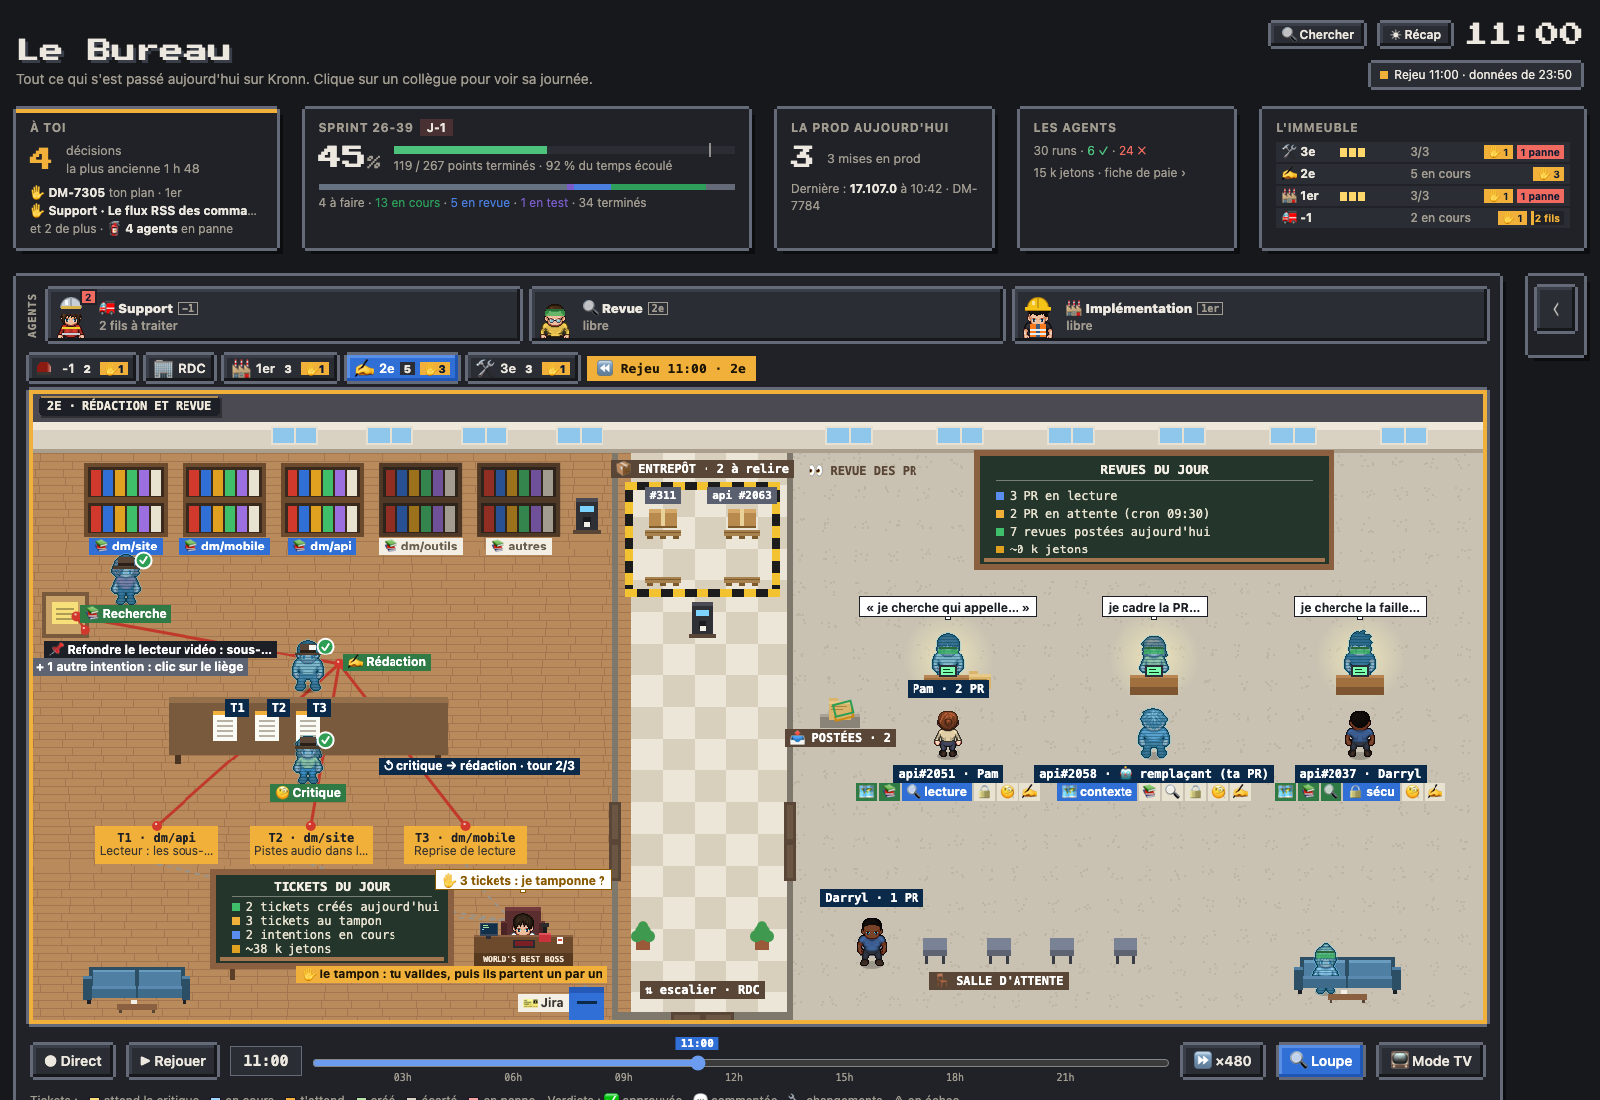
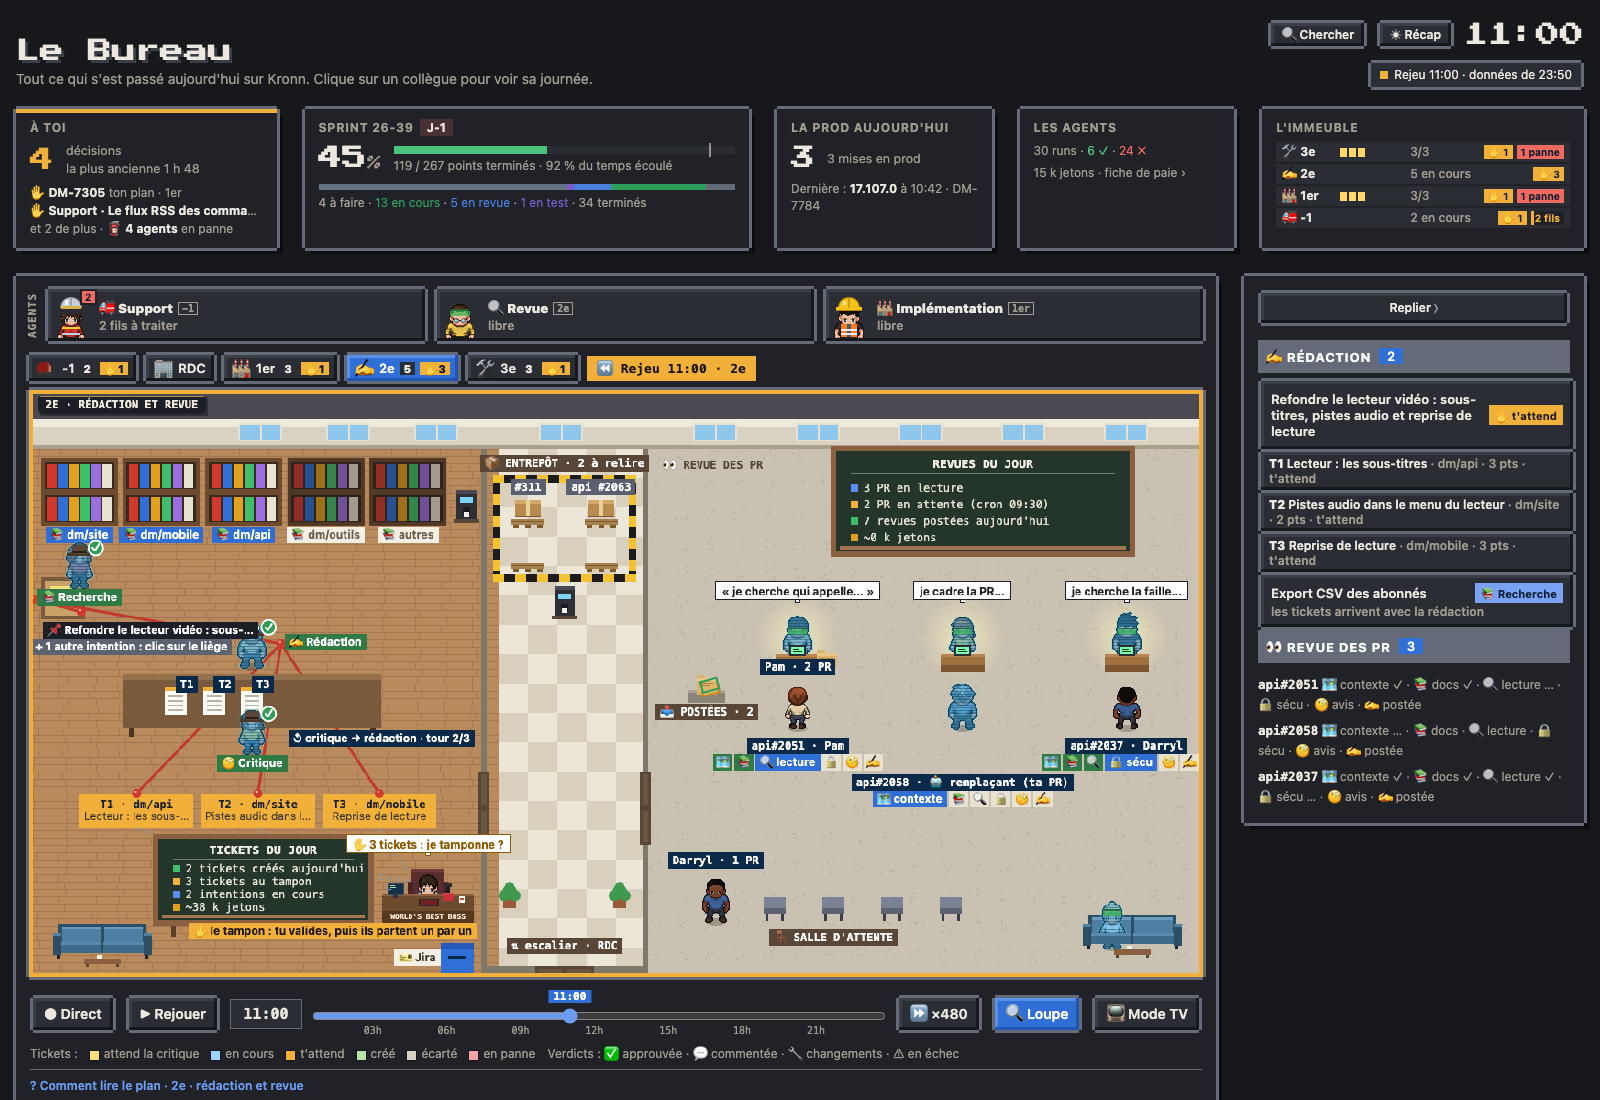
feat(etages): le 2e à 40 cases : rédaction 15,5, couloir 5,5, revue 19

diff --git a/page/src/68-redaction.js b/page/src/68-redaction.js
@@ -21,14 +21,14 @@ const RD_HELP={bar:()=>'<span>Tickets :</span>'+legSwatches(RD_TK)+'<span>Verdic
     '<p><b>L\'entrepôt</b>, en haut du couloir : une palette par PR qui attend sa relecture, dans l\'ordre du cron ; en rouge, une revue en panne. <b>Corbeille « Postées »</b> : les avis du passage. <b>Trois bureaux</b> de revue, le premier pour la file. <b>Salle d\'attente</b>, en bas : une chaise par auteur.</p>',
   moments:'<p><b>✋ Le tampon</b> : ici, ta décision, c\'est le tampon. Les tickets relus l\'attendent un par un.</p><p><b>✂ Le découpage</b> : une intention qui touche plusieurs projets devient plusieurs tickets, un brin de fil chacun.</p>'+
     '<p><b>📥 La fournée</b> : à chaque passage du cron des revues, Bernard pose une palette par PR dans l\'entrepôt.</p>'};
-// 46 × 20 cases : une rangée de pièces de part et d'autre du couloir, sans second niveau (AT_ROWS, 68-atelier.js) ; le
+// 40 × 20 cases, comme le RDC : une rangée de pièces de part et d'autre du couloir, sans second niveau (AT_ROWS, 68-atelier.js) ; le
 // couloir, plus large, garde l'entrepôt de la revue en haut (68-revue.js) ; RD_HY : le palier, devant les deux portes
 const RD_ROWS=20;AT_ROWS[2]=RD_ROWS;
-const RD_X1=18.5, RD_VX=24, RD_HY=14.25, RD_SH0=['dm/site','dm/mobile','dm/api','dm/outils'];
-const RD_WINDOWS=[7.5,10.5,13.5,16.5,25,28.5,32,35.5,39,42.5]; // en cases : à droite du nom de l'étage, comme au RDC
-const RD_DESK={x:15.6*AT_TS,y:17.7*AT_TS}, RD_JIRA={x:17.6*AT_TS,y:19.9*AT_TS}, RD_CORK={x:1.15*AT_TS,y:8*AT_TS};
+const RD_X1=15.5, RD_VX=21, RD_HY=14.25, RD_SH0=['dm/site','dm/mobile','dm/api','dm/outils'];
+const RD_WINDOWS=[7,10,13,17.25,22.5,26,29.5,33,36.5]; // en cases : à droite du nom de l'étage, comme au RDC
+const RD_DESK={x:13.6*AT_TS,y:17.7*AT_TS}, RD_JIRA={x:14.6*AT_TS,y:19.9*AT_TS}, RD_CORK={x:1.15*AT_TS,y:8*AT_TS};
 // les cartes des tickets (le bas du fil rouge) ; les bureaux de la revue, sur une seule rangée (le premier : la file du cron)
-const RD_CARD_Y=14.5*AT_TS, RV_DESKS=3, rvDeskX=k=>(29+k*6.5)*AT_TS, RV_FEET=9.2*AT_TS;
+const RD_CARD_Y=14.5*AT_TS, RV_DESKS=3, rvDeskX=k=>(26.2+k*5.6)*AT_TS, RV_FEET=9.2*AT_TS;
 let REDACTION=null, RDSEL=null, RD_HITS=[], RD_LIT=[], RD_MEM={last:0};
 let RDTK=null; // le ticket ouvert dans le panneau : {run, k} (clic sur sa carte à la table ou sur sa ligne du panneau)
 // la fiche ouverte au clic sur le plan : intention, poste, boîte Jira ; à la revue : PR lue, auteur, entrepôt, corbeille ;
@@ -125,7 +125,7 @@ const rvSteps=r=>(r.steps||[]).filter(s=>RV_STEP[s.n]); // les postes et l'avis 
 // pour que trois bureaux côte à côte ne se chevauchent pas
 function rvStepsRow(r,cx,y){
   const steps=rvSteps(r), f='bold 12px system-ui,sans-serif';ctx.font=f;
-  const ls=steps.map(rvStepLbl), ws=ls.map(l=>ctx.measureText(l).width+(l.includes(' ')?10:6)), tot=ws.reduce((a,b)=>a+b,0)+Math.max(0,steps.length-1)*2;let x=cx-tot/2;
+  const ls=steps.map(rvStepLbl), ws=ls.map(l=>ctx.measureText(l).width+(l.includes(' ')?10:6)), tot=ws.reduce((a,b)=>a+b,0)+Math.max(0,steps.length-1)*2;let x=Math.max(4,Math.min(AT_W-4-tot,cx-tot/2)); // dans le plan, comme atPill
   steps.forEach((s,j)=>{const c=s.s==='Success'?'#2f7a45':s.s==='Running'?'#2f6fd6':s.s==='Failed'?'#a8323a':'#e8e2d0';
     R(ctx,x,y-13,ws[j],18,c);atTxt(ls[j],x+ws[j]/2,y,c==='#e8e2d0'?'#6a6050':'#fff',f);x+=ws[j]+2;});
 }
@@ -138,7 +138,7 @@ const rdFait=t=>t&&t.fait&&faNear(REDACTION)?t.fait:null;
 const RD_T=AT_TS;
 function rdBackground(){
   const T=RD_T, H=RD_ROWS, d0=RD_HY-1.25, d1=RD_HY+1.25, c=document.createElement('canvas');c.width=AT_W;c.height=H*T;const g=c.getContext('2d');
-  for(let y=0;y<H;y++)for(let x=0;x<46;x++)drawFloor(g,x,y,x<RD_X1?'wood':x<RD_VX?'tiles':'carpet');
+  for(let y=0;y<H;y++)for(let x=0;x<AT_W/T;x++)drawFloor(g,x,y,x<RD_X1?'wood':x<RD_VX?'tiles':'carpet');
   R(g,0,0,AT_W,T,'#4b4a52');R(g,0,T,AT_W,8,'#efe9dc');R(g,0,T+8,AT_W,24,'#d9d2c3');R(g,0,T+28,AT_W,4,'#a99f8c');
   for(const x of [RD_X1,RD_VX]){R(g,x*T-3,2*T,6,(d0-2)*T,'#7d776c');R(g,x*T-3,d1*T,6,(H-d1)*T,'#7d776c');}
   for(const x of [RD_X1,RD_VX])woodDoor(g,x*T-6,d0*T,12,2.5*T,2,true); // les portes de la rédaction et de la revue, sur le palier
@@ -180,15 +180,15 @@ function rdStrand(a,b,on){ctx.save();ctx.beginPath();ctx.moveTo(a.x,a.y);if(on){
 // avant qu'elle démarre, et porte chaque ticket tamponné à la boîte Jira.
 let RD_LV=null;
 const rdLv0=()=>Object.assign(lvMem(),{wan:{},sleep:false,seen:new Set(),tk:{},pend:{},gate:new Set(),jobs:[],job:null,want:{},run:null});
-const RDP=(x,y)=>({x:x*RD_T,y:y*RD_T}), RD_KS={recherche:60,redaction:61,critique:62}, RD_COFFEE=RDP(17.6,4.4);
+const RDP=(x,y)=>({x:x*RD_T,y:y*RD_T}), RD_KS={recherche:60,redaction:61,critique:62}, RD_COFFEE=RDP(14.9,4.4);
 // le palier, la porte de la rédaction, puis l'allée le long du mur du couloir ; RD_AU, RD_AL : l'allée du haut (au-dessus de
 // la table) et celle du bas (sous la critique, au-dessus des tickets épinglés)
-const RD_H=RDP((RD_X1+RD_VX)/2,RD_HY), RD_IN=[RD_H,RDP(RD_X1,RD_HY),RDP(17.6,RD_HY)], RD_AU=7.6, RD_AL=13.2;
+const RD_H=RDP((RD_X1+RD_VX)/2,RD_HY), RD_IN=[RD_H,RDP(RD_X1,RD_HY),RDP(14.6,RD_HY)], RD_AU=7.6, RD_AL=13.2;
 const rdEntry=()=>[RVF.stairLow,RVF.stair,RD_H]; // 68-revue.js : de derrière la porte de l'escalier au palier
-function rdGeo(t){const T=RD_T, shelves=rdShelves(t), sw=3.1*T, sh0=(RD_X1*T-(4*sw+84))/2, lit=new Set((t&&t.composants)||[]), shi=t?Math.max(0,shelves.findIndex(n=>lit.has(n))):1, tx=8.8*T, ty=10.6*T;
+function rdGeo(t){const T=RD_T, shelves=rdShelves(t), sw=2.8*T, sh0=(RD_X1*T-28-(4*sw+84))/2, lit=new Set((t&&t.composants)||[]), shi=t?Math.max(0,shelves.findIndex(n=>lit.has(n))):1, tx=7.6*T, ty=10.6*T;
   return {T,shelves,sw,sh0,lit,shi,tx,ty,rech:{x:sh0+shi*sw+42,y:6.7*T},red:{x:tx,y:ty-1.2*T},cri:{x:tx,y:ty+1.75*T}};}
 // les places : par l'allée du haut (au-dessus de la table) ou celle du bas (au-dessus des tickets épinglés)
-function rdSpots(G){const T=RD_T, U=[...RD_IN,RDP(17.6,RD_AU)], L=[...RD_IN,RDP(17.6,RD_AL)], sofa=RD_SOFA;
+function rdSpots(G){const T=RD_T, U=[...RD_IN,RDP(14.6,RD_AU)], L=[...RD_IN,RDP(14.6,RD_AL)], sofa=RD_SOFA;
   const seat=j=>{const x=sofa.x+(j?22:-22);return {id:'sofa'+j,path:[...L,RDP(1.2,RD_AL),RDP(1.2,17.2),{x,y:17.2*T},{x,y:sofa.y}],dir:'down',sofa:true,front:()=>atSofaFront(sofa.x,sofa.y)};};
   return {recherche:{id:'p:rech',path:[...U,{x:G.rech.x,y:RD_AU*T},G.rech],dir:'up',seat:true},redaction:{id:'p:red',path:[...U,{x:G.red.x,y:RD_AU*T},G.red],dir:'down',seat:true},
     critique:{id:'p:cri',path:[...L,{x:G.cri.x,y:RD_AL*T},G.cri],dir:'up',seat:true},
@@ -209,7 +209,7 @@ function rdWant(t,G,now,rnd){
 }
 // le boss : une intention arrive, il va l'épingler au liège ; un ticket tamponné, il le porte à Jira. Un trajet à la fois.
 // à Jira : il s'arrête au-dessus de la boîte, tournée vers elle (en bas du plan)
-const RD_SOFA=RDP(3.4,19), RD_UP=RDP(15.6,16.5), RD_TRIP={intro:[RD_DESK,RD_UP,RDP(17.2,16.5),RDP(17.2,RD_AL),RDP(1.15,RD_AL),RDP(1.15,9.2)],jira:[RD_DESK,RD_UP,RDP(17.6,16.5),RDP(17.6,18.6)]};
+const RD_SOFA=RDP(2.5,19), RD_UP=RDP(13.6,16.5), RD_TRIP={intro:[RD_DESK,RD_UP,RDP(14.4,16.5),RDP(14.4,RD_AL),RDP(1.15,RD_AL),RDP(1.15,9.2)],jira:[RD_DESK,RD_UP,RDP(14.6,16.5),RDP(14.6,18.6)]};
 function rdJobs(t,now,dt){
   const M=RD_LV, boost=walkBoost();
   if(t&&!M.seen.has(t.run)){M.seen.add(t.run);if(!M.fresh&&!REDUCED_MOTION){M.gate.add(t.run);M.jobs.push({kind:'intro',run:t.run});}}
@@ -242,19 +242,20 @@ function rdRoom(now,people){
   rdLate(people,()=>{R(ctx,tx-4.4*T,ty-.9*T,8.8*T,1.8*T,'#7a5a3c');R(ctx,tx-4.4*T,ty-.9*T,8.8*T,6,'#94704c');R(ctx,tx-4.2*T,ty+.9*T,6,10,'#4a3424');R(ctx,tx+4.2*T-6,ty+.9*T,6,10,'#4a3424');
     tks.slice(0,4).forEach((x,k)=>{const sx=tx+(-2.6+k*1.3)*T;R(ctx,sx-12,ty-15,24,30,'#fbfbf6');R(ctx,sx-12,ty-15,24,4,RD_TK[x.etat]?RD_TK[x.etat][0]:'#2f6fd6');for(let l=0;l<4;l++)R(ctx,sx-8,ty-6+l*5,16,2,'#b8b2a4');atPill('T'+(k+1),sx+12,ty-14,'#0b2a4a','#fff','bold 12px ui-monospace,Menlo,monospace');});
     if(tks.length>4)atPill('+'+(tks.length-4),tx+2.6*T,ty,'#0b2a4a','#fff','bold 12px ui-monospace,Menlo,monospace');
-    if(t&&t.tour>1)atPill('↺ critique → rédaction · tour '+t.tour+'/3',tx+5.4*T,ty+1.4*T,'#0b2a4a','#fff','bold 12px system-ui,sans-serif');},ty-.6*T);
+    if(t&&t.tour>1){const s='↺ critique → rédaction · tour '+t.tour+'/3';ctx.font='bold 12px system-ui,sans-serif';
+      atPill(s,Math.min(tx+5.4*T,RD_X1*T-10-(ctx.measureText(s).width+10)/2),ty+1.4*T,'#0b2a4a','#fff','bold 12px system-ui,sans-serif');}},ty-.6*T);
   atHitRd('table',tx-4.4*T,ty-2.2*T,8.8*T,5*T,{});
   // les plaques des postes (leur nom, toujours au même endroit, même quand l'agent se promène) : le fil rouge y est épinglé
   const plq={recherche:{x:rech.x,y:rech.y+16},redaction:{x:red.x+80,y:red.y-22},critique:{x:cri.x,y:cri.y+16}}, pin={};
   ctx.font='bold 12px system-ui,sans-serif';for(const k in plq)pin[k]={x:plq[k].x-(ctx.measureText(RD_LBL[k]).width+10)/2-4,y:plq[k].y-2};
   // le fil rouge : le liège, la recherche, la rédaction, puis un brin par ticket ; tous finissent au tampon, puis à Jira
   const desk=RD_DESK, jira=RD_JIRA, p0={x:S.x+20,y:S.y-14}, p1=pin.recherche, p2=pin.redaction;
-  const cards=tks.slice(0,4).map((x,k,l)=>({x:(2.2+k*(14.6/Math.max(1,l.length)))*T+(14.6/Math.max(1,l.length))*T/2-.6*T,y:RD_CARD_Y}));
+  const cards=tks.slice(0,4).map((x,k,l)=>({x:(2.2+k*(12.4/Math.max(1,l.length)))*T+(12.4/Math.max(1,l.length))*T/2-.6*T,y:RD_CARD_Y}));
   if(t){rdStrand(p0,p1,true);rdStrand(p1,p2,p!=='recherche');
     cards.forEach((c,k)=>{rdStrand(p2,{x:c.x,y:c.y-24},tks[k].etat!=='wait'||p==='valider');rdStrand({x:c.x,y:c.y+14},{x:desk.x,y:desk.y-30},tks[k].etat==='ok');});
     rdStrand({x:desk.x,y:desk.y-30},{x:jira.x,y:jira.y-34},tks.some(x=>x.etat==='ok'));
     rdLate(people,()=>{rdPin(p0,'#d0392b');rdPin(p1,'#d0392b');if(p!=='recherche')rdPin(p2,'#d0392b');
-      const cw=Math.min(124,14.6/Math.max(1,cards.length)*T-6); // la carte : aussi large que sa place le permet
+      const cw=Math.min(124,12.4/Math.max(1,cards.length)*T-6); // la carte : aussi large que sa place le permet
       cards.forEach((c,k)=>{const x=tks[k], col=(RD_TK[x.etat]||RD_TK.wait);R(ctx,c.x-cw/2,c.y-24,cw,38,x.etat==='wait'&&p==='critique'&&k===0?'#9fd4ff':col[0]);rdPin({x:c.x,y:c.y-24},'#d0392b');
         atTxt(rdFit('T'+(k+1)+' · '+(x.composant||'?'),cw-6,'bold 12px ui-monospace,Menlo,monospace'),c.x,c.y-8,'#1c1f26','bold 12px ui-monospace,Menlo,monospace');atTxt(rdFit(x.summary||'',cw-6,'12px system-ui'),c.x,c.y+5,'#3a3530','12px system-ui');
         atHitRd('ticket',c.x-cw/2,c.y-24,cw,38,{k});});
@@ -282,7 +283,7 @@ function rdRoom(now,people){
 // le tableau noir des tickets du jour, jumeau de REVUES DU JOUR, sur un chevalet entre les tickets épinglés et le tampon
 // (rien au clic : le détail est dans la page « Rédaction · bilan ») ; créés et jetons depuis minuit : dataset redaction ;
 // en rejeu, les tickets créés, les intentions et le tampon à l'heure du curseur, les jetons du relevé (⏱, non datés)
-const RD_BOARD={x:5.9*RD_T,y:15.3*RD_T,w:7.3*RD_T,h:2.75*RD_T};
+const RD_BOARD={x:4.4*RD_T,y:15.3*RD_T,w:7.15*RD_T,h:2.75*RD_T};
 function rdTicketsDuJour(){
   const d=REDACTION||{};
   return {crees:d.crees||0,tampon:rdTables().reduce((a,t)=>a+(t.tickets||[]).filter(x=>x.etat==='gate').length,0),cours:rdTables().length,tok:d.tok_jour||0};
@@ -338,7 +339,7 @@ function rdRevue(now,people){
   const file=rvfOn(), kids=file?rvfKids():new Set(), F=file?rvfDraw(now,people):null, wait=F&&F.st?F.st.queue.length:0;
   const T=RD_T, l=rvActive().filter(r=>!kids.has(r.run)), done=rvRuns().filter(r=>r.status==='Success'&&r._s>=DAY0).length;
   atTxt('👀 REVUE DES PR',(RD_VX+.6)*T,2.7*T,'#5a4636','bold 12px ui-monospace,Menlo,monospace','left');
-  const bx=30*T, by=2.1*T, bw=11*T, bh=3.4*T;R(ctx,bx-6,by-6,bw+12,bh+12,'#8a6040');R(ctx,bx,by,bw,bh,'#24352c');R(ctx,bx+4,by+bh-6,bw-8,4,'#a37650');
+  const bx=27.5*T, by=2.1*T, bw=10*T, bh=3.4*T;R(ctx,bx-6,by-6,bw+12,bh+12,'#8a6040');R(ctx,bx,by,bw,bh,'#24352c');R(ctx,bx+4,by+bh-6,bw-8,4,'#a37650');
   atTxt('REVUES DU JOUR',bx+bw/2,by+18,'#f4efe4','bold 13px ui-monospace,Menlo,monospace');R(ctx,bx+16,by+24,bw-32,1,'rgba(244,239,228,.4)');
   // les jetons : le total de chaque run au relevé ; en rejeu, non datés, en ⏱
   const tk=Math.round(rvRuns().filter(r=>r._s>=DAY0).reduce((a,r)=>a+(r.tok||0),0)/1e3)+' k jetons', rel=!boardLive(REDACTION);
@@ -347,8 +348,9 @@ function rdRevue(now,people){
     .forEach(([c,t,i],k)=>{R(ctx,bx+16,by+36+k*18,8,8,c);atTxt(t,bx+30,by+44+k*18,i||'#e8e2d0','12px ui-monospace,Menlo,monospace','left');});
   const boss=chars.find(c=>c.boss);
   if(file)rvfDesk(people,now,F);
-  // une seule rangée de trois bureaux : le premier pour la file du cron, les autres pour les revues à la demande
-  for(let k=file?1:0;k<RV_DESKS;k++){const r=l[k-(file?1:0)], cx=rvDeskX(k), feet=RV_FEET, rf=feet+2.3*T;
+  // une seule rangée de trois bureaux : le premier pour la file du cron, les autres pour les revues à la demande ; sur 40 cases,
+  // l'étiquette et les postes du bureau du milieu descendent d'un cran (dy) pour ne pas chevaucher ceux des voisins
+  for(let k=file?1:0;k<RV_DESKS;k++){const r=l[k-(file?1:0)], cx=rvDeskX(k), feet=RV_FEET, rf=feet+2.3*T, dy=k===1?40:0;
     if(!r){atDesk(cx,feet-6,false);ctx.fillStyle='rgba(30,26,22,.22)';ctx.fillRect(cx-90,feet-90,180,150);rdLate(people,()=>atPill('bureau libre',cx,feet+40,'#f4efe4','#6a6050','bold 12px system-ui,sans-serif'),feet);continue;}
     const v=r.vars||{}, who=v['current_task.author'], au=who&&typeof ghChar==='function'?ghChar(who):null, mine=au&&boss&&au.key===boss.key;
     // le relecteur et l'auteur arrivent par la porte de l'escalier, et repartent la revue finie (67-vie.js)
@@ -359,9 +361,9 @@ function rdRevue(now,people){
     if(lvSeated(M,ri))rdAgent(people,100+k,cx,feet,'run',{hat:'visiere',desk:true,bubble:rvBubble(r)},now);
     else{atDesk(cx,feet-6,false);ctx.fillStyle='rgba(30,26,22,.22)';ctx.fillRect(cx-90,feet-90,180,150);}
     const pr=(String(v['current_task.repo']||'').split('/').pop()||'?')+'#'+(v['current_task.number']||'?'), name=au&&!mine?au.name:mine?'🤖 remplaçant (ta PR)':who?'@'+who:'';
-    rdLate(people,()=>{atPill(pr+(name?' · '+name:''),cx,rf+24,'#0b2a4a','#fff','bold 12px ui-monospace,Menlo,monospace');
-      rvStepsRow(r,cx,rf+42);},rf+1);
-    atHitRd('review',cx-60,feet-60,120,rf-feet+80,{run:r.run});}
+    rdLate(people,()=>{atPill(pr+(name?' · '+name:''),cx,rf+24+dy,'#0b2a4a','#fff','bold 12px ui-monospace,Menlo,monospace');
+      rvStepsRow(r,cx,rf+42+dy);},rf+1);
+    atHitRd('review',cx-60,feet-60,120,rf-feet+80+dy,{run:r.run});}
   // le canapé, en bas à droite : les relecteurs libres (celui de la file le quitte pour son bureau)
   rdBench(people,RVF.bench.x,RVF.bench.y,file&&F.M.rel?[96]:[96,97],'visiere');
   // le couloir : le distributeur sous l'entrepôt (68-revue.js), deux plantes, l'escalier en bas

diff --git a/page/src/68-revue.js b/page/src/68-revue.js
@@ -18,9 +18,9 @@ const RVF_TS=AT_TS, RVP=(x,y)=>({x:x*RVF_TS,y:y*RVF_TS});
 // le premier bureau ; rely, lane : leurs allées au-dessus de la salle d'attente
 const RV_MID=(RD_X1+RD_VX)/2;
 const RVF={stairLow:RVP(RV_MID,RD_ROWS+1.9),stair:RVP(RV_MID,RD_ROWS-.6),hall:RVP(RV_MID,RD_HY),door:RVP(RD_VX+.2,RD_HY),in:RVP(RD_VX+1.4,RD_HY),
-  desk:{x:rvDeskX(0),y:RV_FEET},face:{x:rvDeskX(0),y:RV_FEET+2.3*RVF_TS},bench:RVP(41.6,18.7),
-  stand:RVP(RV_MID+1.65,7.6),pick:RVP(RV_MID-1.25,7.3),basket:RVP(25.6,10.4),bk:RVP(26.8,10.4),relx:27.1*RVF_TS,rely:15.8*RVF_TS,
-  col:27.6*RVF_TS,lane:16.4*RVF_TS};
+  desk:{x:rvDeskX(0),y:RV_FEET},face:{x:rvDeskX(0),y:RV_FEET+2.3*RVF_TS},bench:RVP(37.6,18.7),
+  stand:RVP(RV_MID+1.65,7.6),pick:RVP(RV_MID-1.25,7.3),basket:RVP(23.1,10.4),bk:RVP(24.2,10.4),relx:24.5*RVF_TS,rely:15.8*RVF_TS,
+  col:25*RVF_TS,lane:16.4*RVF_TS};
 RVF.park={x:RVF.stand.x,y:RVF.stand.y+36};
 // l'entrepôt : une zone au sol en haut du couloir, sans murs, bordée d'une bande de sécurité ; quatre places de palette (deux
 // rangées de deux, dans l'ordre de lecture), la dernière dit « +n » s'il y en a plus
@@ -28,7 +28,7 @@ const RVF_E={x0:RD_X1*RVF_TS+10,x1:RD_VX*RVF_TS-10,y0:2.9*RVF_TS,y1:2.9*RVF_TS+1
 const rvfSlot=k=>({x:RV_MID*RVF_TS+(k%2?1.25:-1.25)*RVF_TS,y:RVF_E.y0+48+(k>>1)*48});
 const RVF_V={approve:['✅','#2f9e55'],comment:['💬','#d08a12'],request_changes:['🔧','#c0392b'],err:['⚠','#a8323a']};
 const RVF_WALK=105, RVF_FILE=600, RVF_FLY=500, RVF_SLOTS=4;
-const rvfChair=j=>RVP(26.6+j*2,18.1);
+const rvfChair=j=>RVP(23.4+j*2,18.1);
 const rvCronWf=w=>!!w&&(CFG.revue_cron_wf||[]).includes(String(w).slice(0,8));
 const rvfOn=()=>!!((CFG.revue_cron_wf||[]).length||DEMO);
 const rvfData=()=>(REDACTION&&REDACTION.revue)||{batches:{},verdicts:{}};
